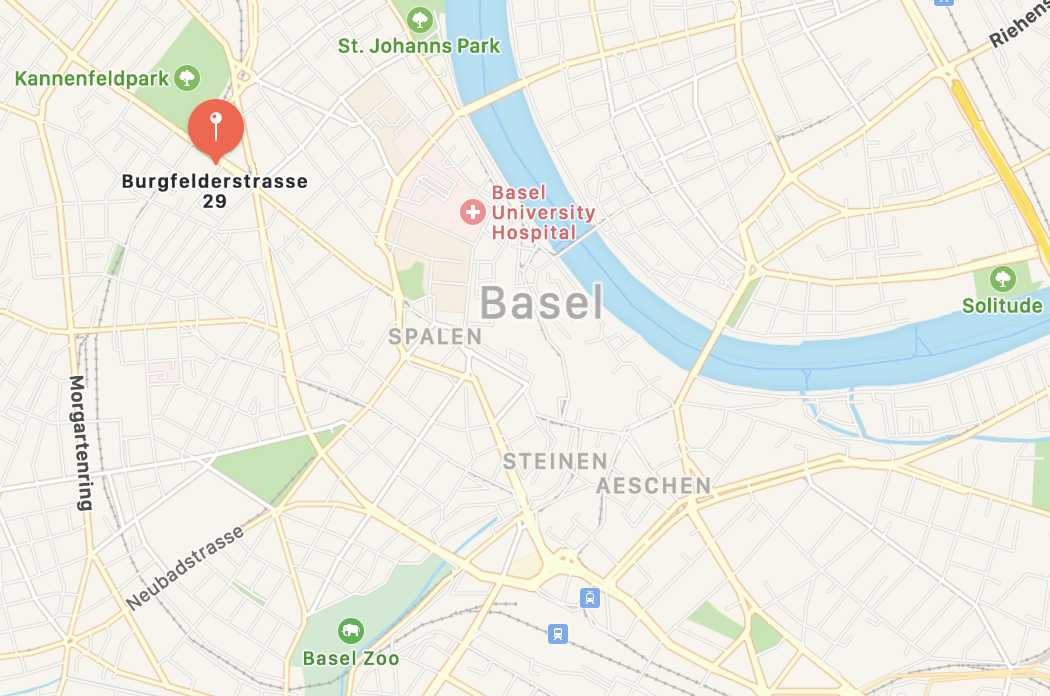
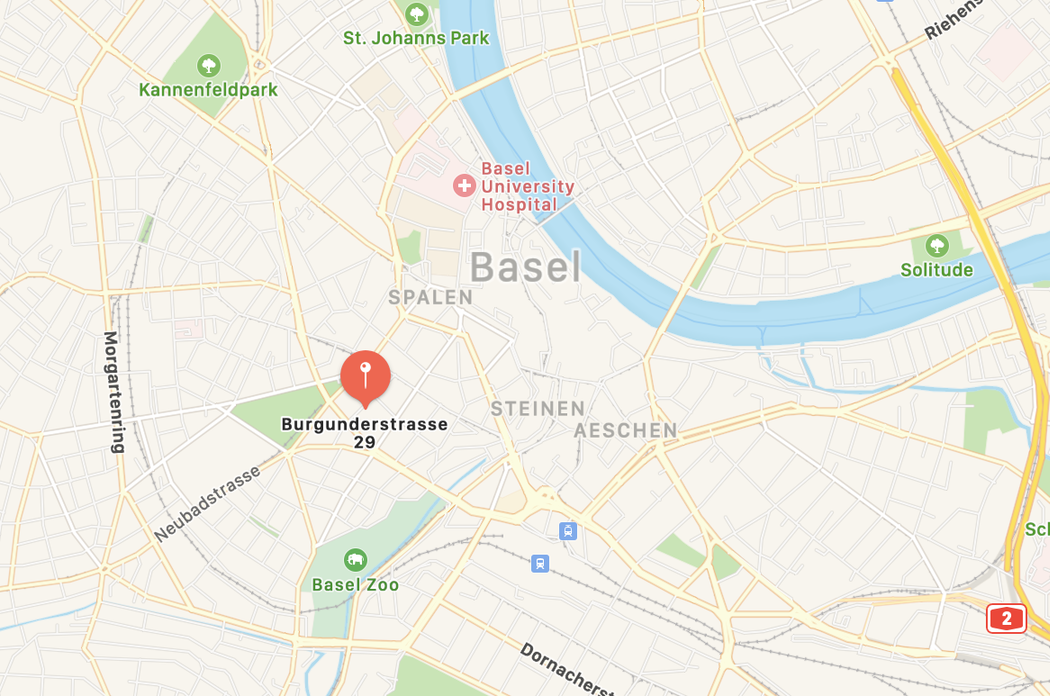
New address Burgunderstrasse 29

diff --git a/kontakt.html b/kontakt.html
@@ -101,14 +101,14 @@
         <div class="col-md-6 vSpaced ">
             <div class="well vPushed">
 
-                <a href="https://www.google.ch/maps/place/Burgfelderstrasse+29,+4055+Basel">
+                <a href="https://www.google.ch/maps/place/Burgunderstrasse+29,+4051+Basel">
                     <img src="images/map-basel.png" width="200px"/>
                 </a>
                 <h2>Praxis Basel</h2>
 
                 <p>
-                    Burgfelderstrasse 29<br/>
-                    4055 Basel<br/>
+                    Burgunderstrasse 29<br/>
+                    4051 Basel<br/>
                     <a class="link" href="tel:+41 79 263 04 66">+41 79 263 04 66</a>
                 </p>
             </div>

diff --git a/index.html b/index.html
@@ -29,9 +29,9 @@
             "address": [
                 {
                     "@type": "PostalAddress",
-                    "streetAddress": "Burgfelderstrasse 29",
+                    "streetAddress": "Burgunderstrasse 29",
                     "addressLocality": "Basel",
-                    "postalCode": "4054"
+                    "postalCode": "4051"
                 },
                 {
                     "@type": "PostalAddress",
